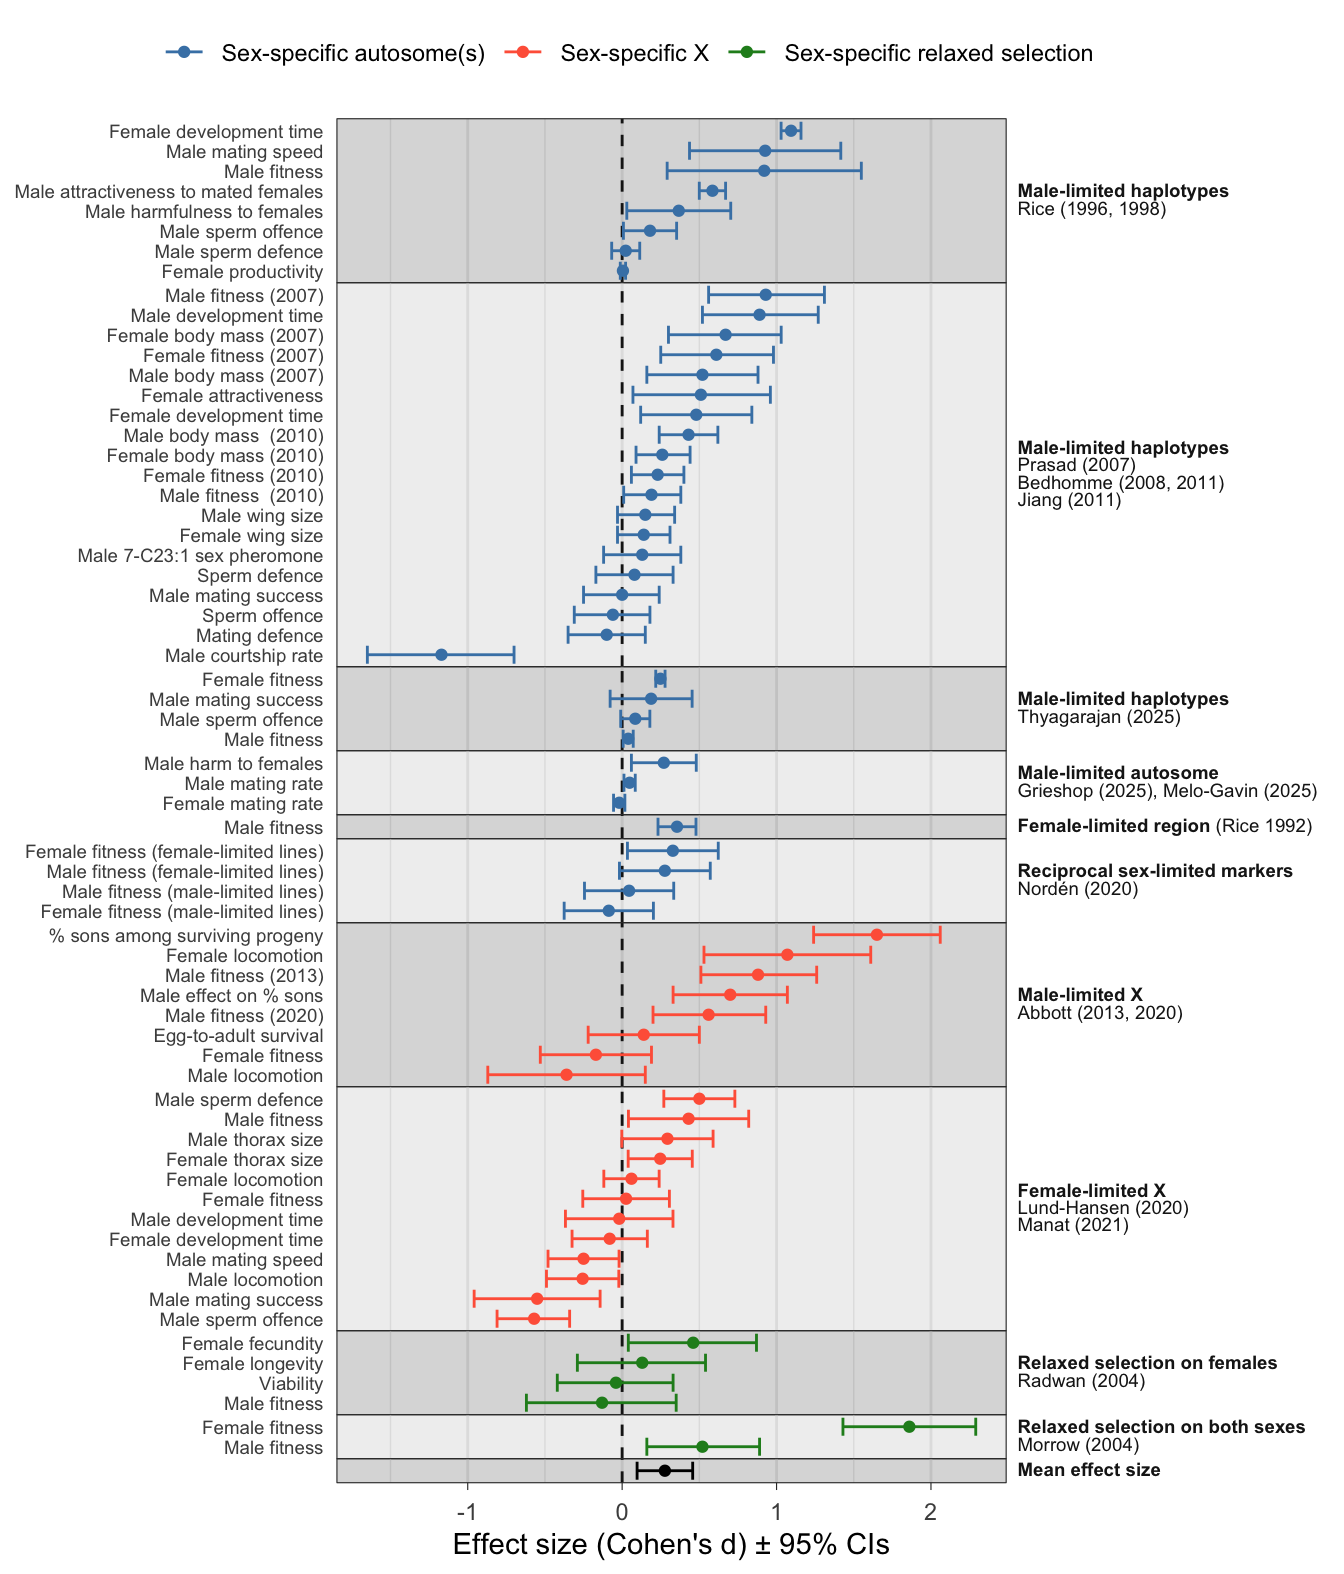
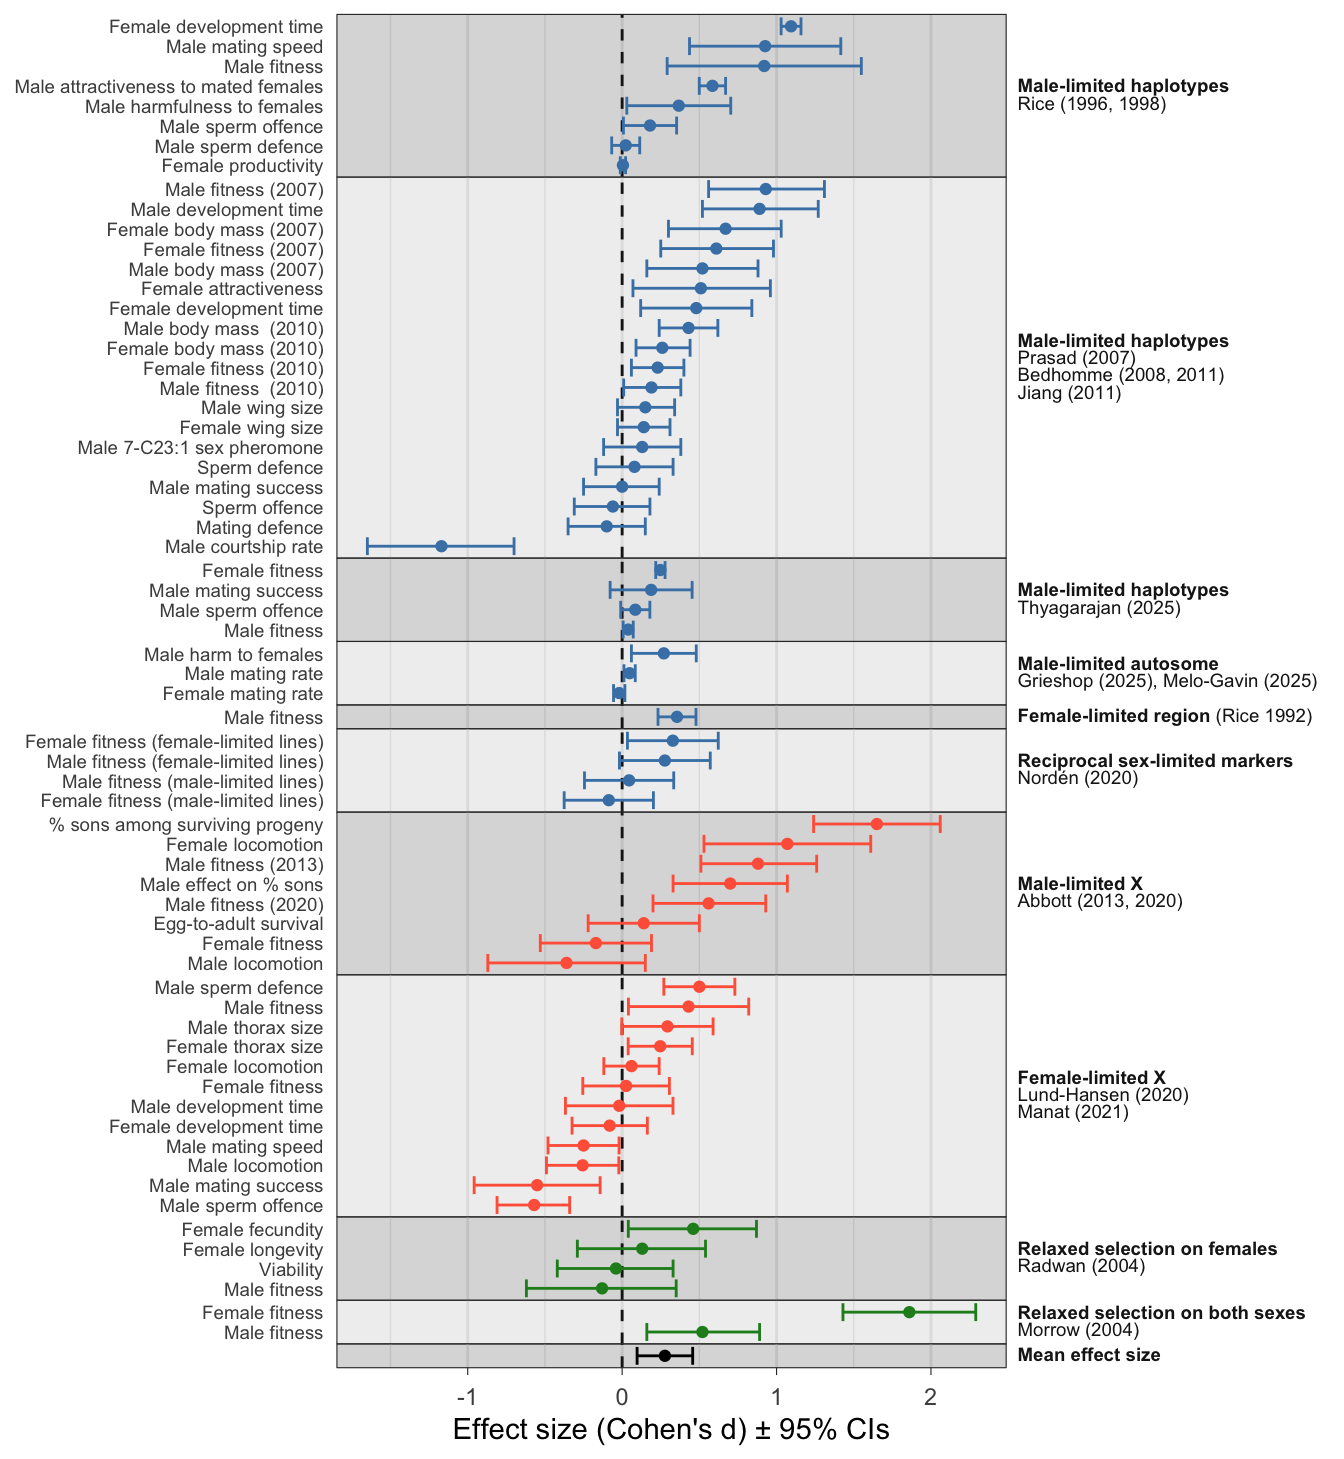
Build site.

Changed region(s): [[0.0312, 0.0, 0.9688, 0.987], [0.75, 0.2159, 0.9062, 0.3393], [0.75, 0.7094, 0.875, 0.8019]]

diff --git a/docs/meta_analysis.html b/docs/meta_analysis.html
@@ -551,15 +551,15 @@ project makes it easier to run your code on other machines.</p>
 <div class="panel panel-default">
 <div class="panel-heading">
 <p class="panel-title">
-<a data-toggle="collapse" data-parent="#workflowr-checks" href="#strongRepositoryversionstrongahrefhttpsgithubcomlukeholmanexpevolmetaanalysistree0ffe7536589eb764b3e3f0db825761af2dc12a29targetblank0ffe753a">
+<a data-toggle="collapse" data-parent="#workflowr-checks" href="#strongRepositoryversionstrongahrefhttpsgithubcomlukeholmanexpevolmetaanalysistree1bc8273bb75eb6f3d9f3b0fb76cd95c1cfbdf5fftargetblank1bc8273a">
 <span class="glyphicon glyphicon-ok text-success"
 aria-hidden="true"></span> <strong>Repository version:</strong>
-<a href="https://github.com/lukeholman/exp_evol_metaanalysis/tree/0ffe7536589eb764b3e3f0db825761af2dc12a29" target="_blank">0ffe753</a>
+<a href="https://github.com/lukeholman/exp_evol_metaanalysis/tree/1bc8273bb75eb6f3d9f3b0fb76cd95c1cfbdf5ff" target="_blank">1bc8273</a>
 </a>
 </p>
 </div>
 <div
[2 lines of base64/hex data omitted]
 class="panel-collapse collapse">
 <div class="panel-body">
 <p>
@@ -569,7 +569,7 @@ reproducibility.
 </p>
 <p>
 The results in this page were generated with repository version
-<a href="https://github.com/lukeholman/exp_evol_metaanalysis/tree/0ffe7536589eb764b3e3f0db825761af2dc12a29" target="_blank">0ffe753</a>.
+<a href="https://github.com/lukeholman/exp_evol_metaanalysis/tree/1bc8273bb75eb6f3d9f3b0fb76cd95c1cfbdf5ff" target="_blank">1bc8273</a>.
 See the <em>Past versions</em> tab to see a history of the changes made
 to the R Markdown and HTML files.
 </p>
@@ -670,6 +670,40 @@ Message
 </tr>
 </thead>
 <tbody>
+<tr>
+<td>
+Rmd
+</td>
+<td>
+<a href="https://github.com/lukeholman/exp_evol_metaanalysis/blob/1bc8273bb75eb6f3d9f3b0fb76cd95c1cfbdf5ff/analysis/meta_analysis.Rmd" target="_blank">1bc8273</a>
+</td>
+<td>
+luekholman
+</td>
+<td>
+2026-02-27
+</td>
+<td>
+Improve figure
+</td>
+</tr>
+<tr>
+<td>
+html
+</td>
+<td>
+<a href="https://rawcdn.githack.com/lukeholman/exp_evol_metaanalysis/0b90819d1539fc41b9c402062e16a51225b04c19/docs/meta_analysis.html" target="_blank">0b90819</a>
+</td>
+<td>
+luekholman
+</td>
+<td>
+2026-02-27
+</td>
+<td>
+Build site.
+</td>
+</tr>
 <tr>
 <td>
 Rmd
@@ -1590,8 +1624,6 @@ plot_data &lt;- meta_analysis_data %&gt;%
          Upper_95_CI) %&gt;% 
   mutate(Experiment_type2 = factor(Experiment_type2, exp2_levs))
 
-
-
 mean_effect &lt;- tibble(
     Origin_of_lines = &quot; &quot;, Short_name = &quot;**Mean effect size**&quot;, 
          Experiment_type1 = &quot;  &quot;, Trait = &quot; &quot;, 
@@ -1626,10 +1658,7 @@ plot_data$Short_name[plot_data$Short_name == &quot;Radwan et al. (2004)&quot;] &
 
 plot_data$Short_name[plot_data$Short_name == &quot;Morrow et al. (2008)&quot;] &lt;- &quot;**Relaxed selection on both sexes**&lt;br&gt;Morrow et al. (2004)&quot;
 
-
 plot_data$Short_name &lt;- str_remove_all(plot_data$Short_name, &quot; et al[.]&quot;)
-plot_data$Short_name &lt;- str_remove_all(plot_data$Short_name, &quot;;&quot;)
-
 levs &lt;- plot_data$Short_name %&gt;% unique()
 
 plot_data &lt;- plot_data %&gt;% 
@@ -1688,7 +1717,7 @@ plot_data %&gt;%
               scales = &quot;free_y&quot;,
               space = &quot;free_y&quot;) +
   theme_minimal()+
-  theme(legend.position = &quot;top&quot;,
+  theme(legend.position = &quot;none&quot;,
         strip.text.y = ggtext::element_markdown(angle = 0, hjust = 0, size = 7),
         axis.text.y = element_text(size = 7),
         strip.background = element_blank(),
@@ -1878,14 +1907,15 @@ luekholman
   #                              &quot;1&quot; = rgb(144, 165, 210, maxColorValue=255))) +</code></pre>
 <p><strong>Figure 1</strong>: Forest plot showing the estimated effect
 sizes (Cohen’s <em>d</em> <span class="math inline">\(\pm\)</span> 95%
-CIs). The y-axis indicates which trait was measured, and the coloured
-bands group effect sizes that come from the same set of experimental
-evolution lines (which are covered in one or more publications, named on
-the right). Positive effect sizes indicate evolutionary change in the
-direction predicted under IaSC, while negative effects indicate
-evolution in the opposite direction. Point colour differentiates between
-studies that manipulated inheritance vs selection. The grand mean effect
-size, shown at the bottom, is significantly positive.</p>
+CIs). The y-axis indicates the trait being measured while horizontal
+grey bands show the 10 independent experimental evolution projects
+(projects are measured in one or more publications, named on the right).
+Positive effect sizes indicate evolutionary change in the direction
+predicted under IaSC, while negative effects indicate evolution in the
+opposite direction. Point colour highlights experiments using
+sex-limited inheritance of autosomal (blue) or X (red) genomic regions,
+or sex-specific relaxed selection (green). The mean effect size from
+meta-analysis is shown in black.</p>
 </div>
 <div id="plotting-effect-of-moderator-generations"
 class="section level2">
